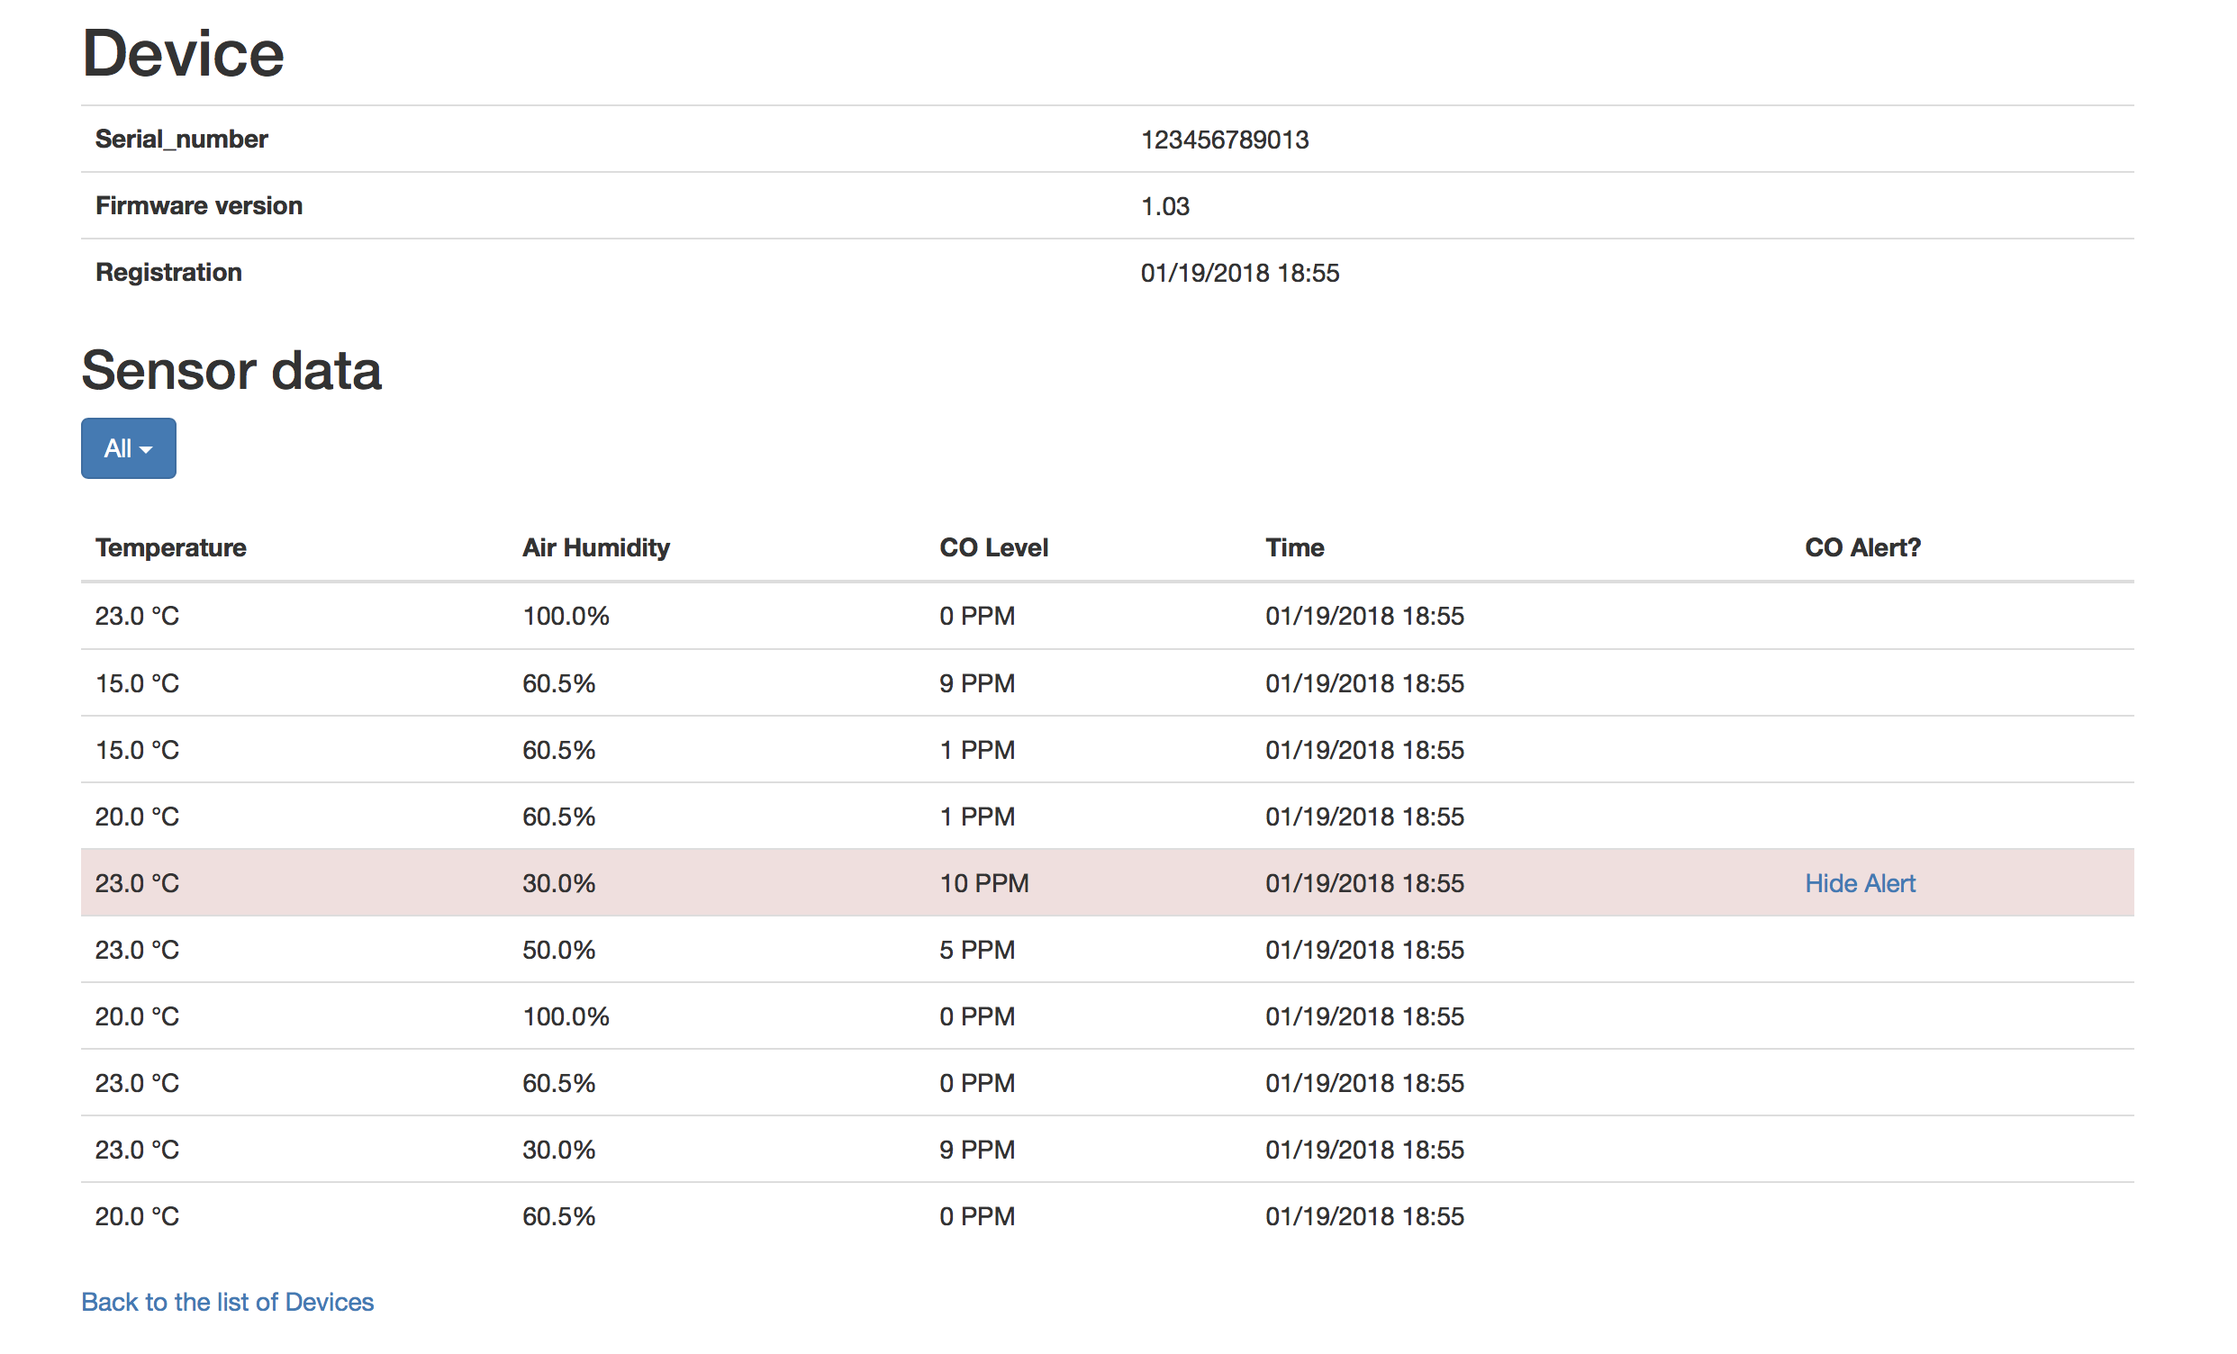
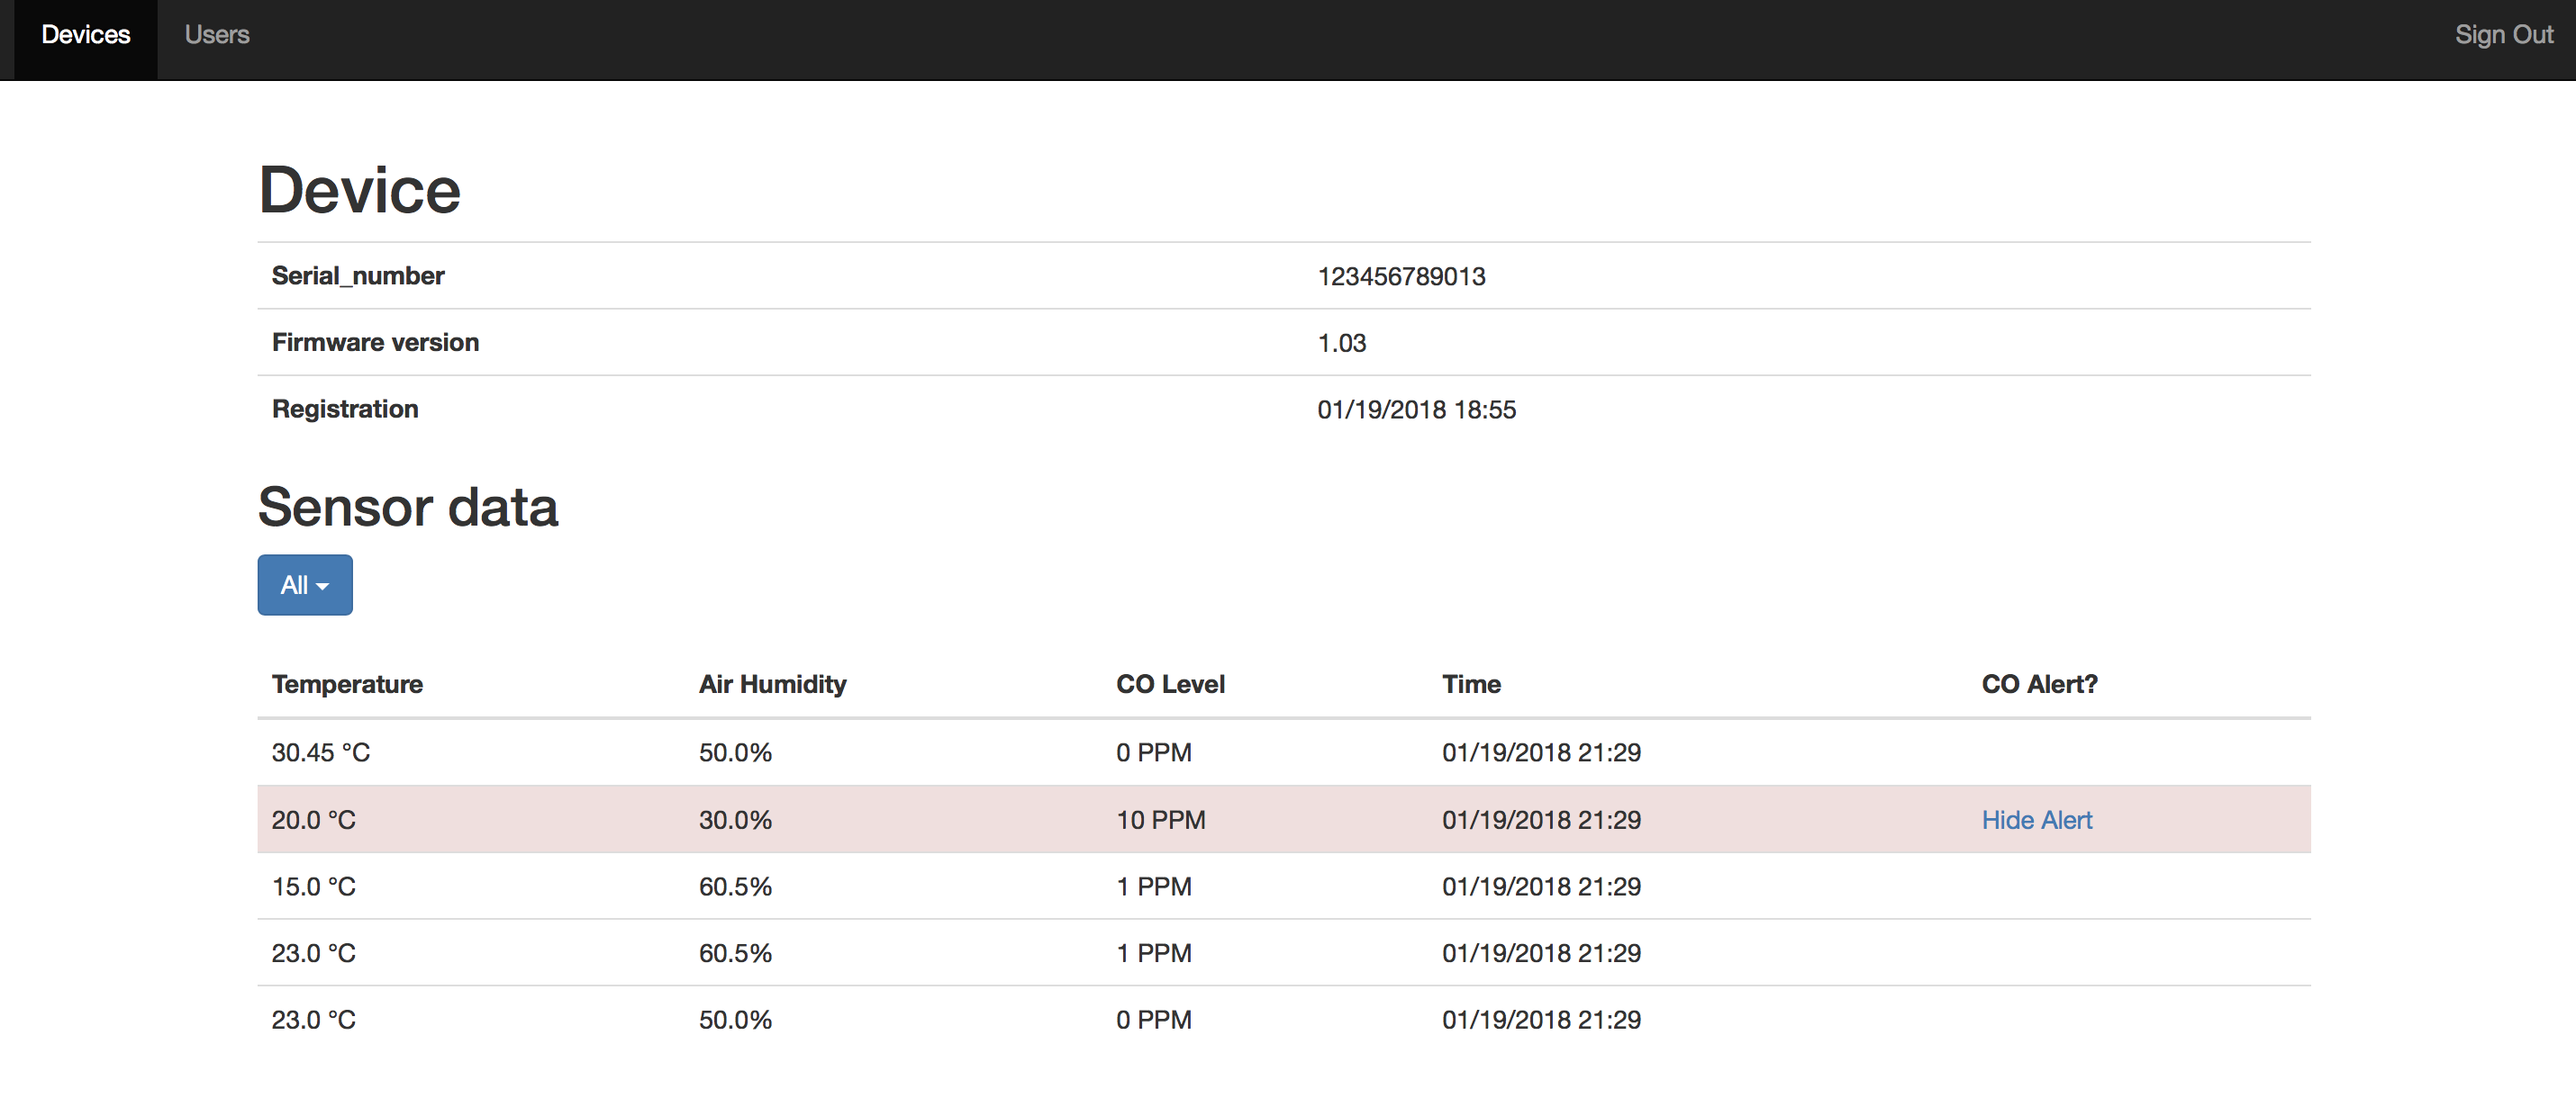
Navigation changes

diff --git a/config/initializers/devise.rb b/config/initializers/devise.rb
@@ -159,7 +159,7 @@ Devise.setup do |config|
 
   # ==> Configuration for :validatable
   # Range for password length.
-  config.password_length = 6..128
+  config.password_length = 8..128
 
   # Email regex used to validate email formats. It simply asserts that
   # one (and only one) @ exists in the given string. This is mainly

diff --git a/README.md b/README.md
@@ -3,7 +3,7 @@ Devices and Sensors Exercise
 
 Rails application.
 
-Ruby 2.4.1
+Ruby 2.4.0
 
 Some seed data has been added (see `db/seeds.rb`)
 
@@ -25,6 +25,14 @@ A device with its data (dashboard too):
 API from the command line (on the development environment):
 
 ![API from CURL](https://raw.githubusercontent.com/CarlosCD/exer-sensors/master/doc/api_access_from_curl.png)
+
+Users index in the dashboard:
+
+![Devices](https://raw.githubusercontent.com/CarlosCD/exer-sensors/master/doc/users_index.png)
+
+Log in to the dashboard:
+
+![Devices](https://raw.githubusercontent.com/CarlosCD/exer-sensors/master/doc/log_in.png)
 
 
 
